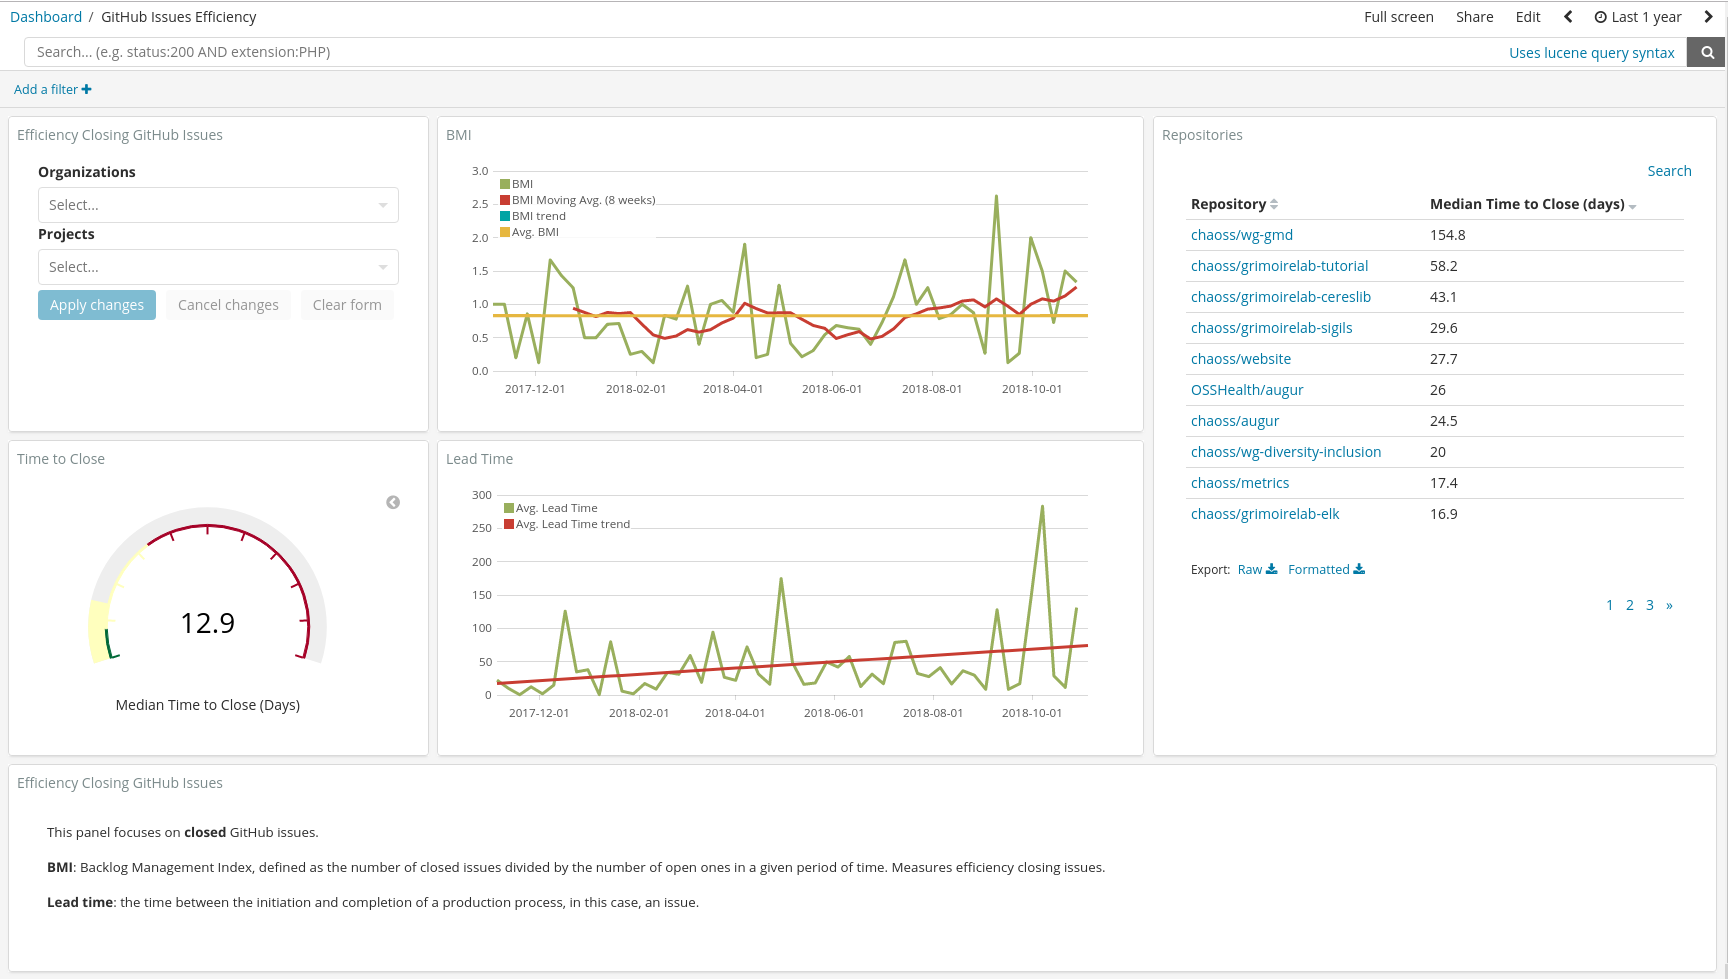
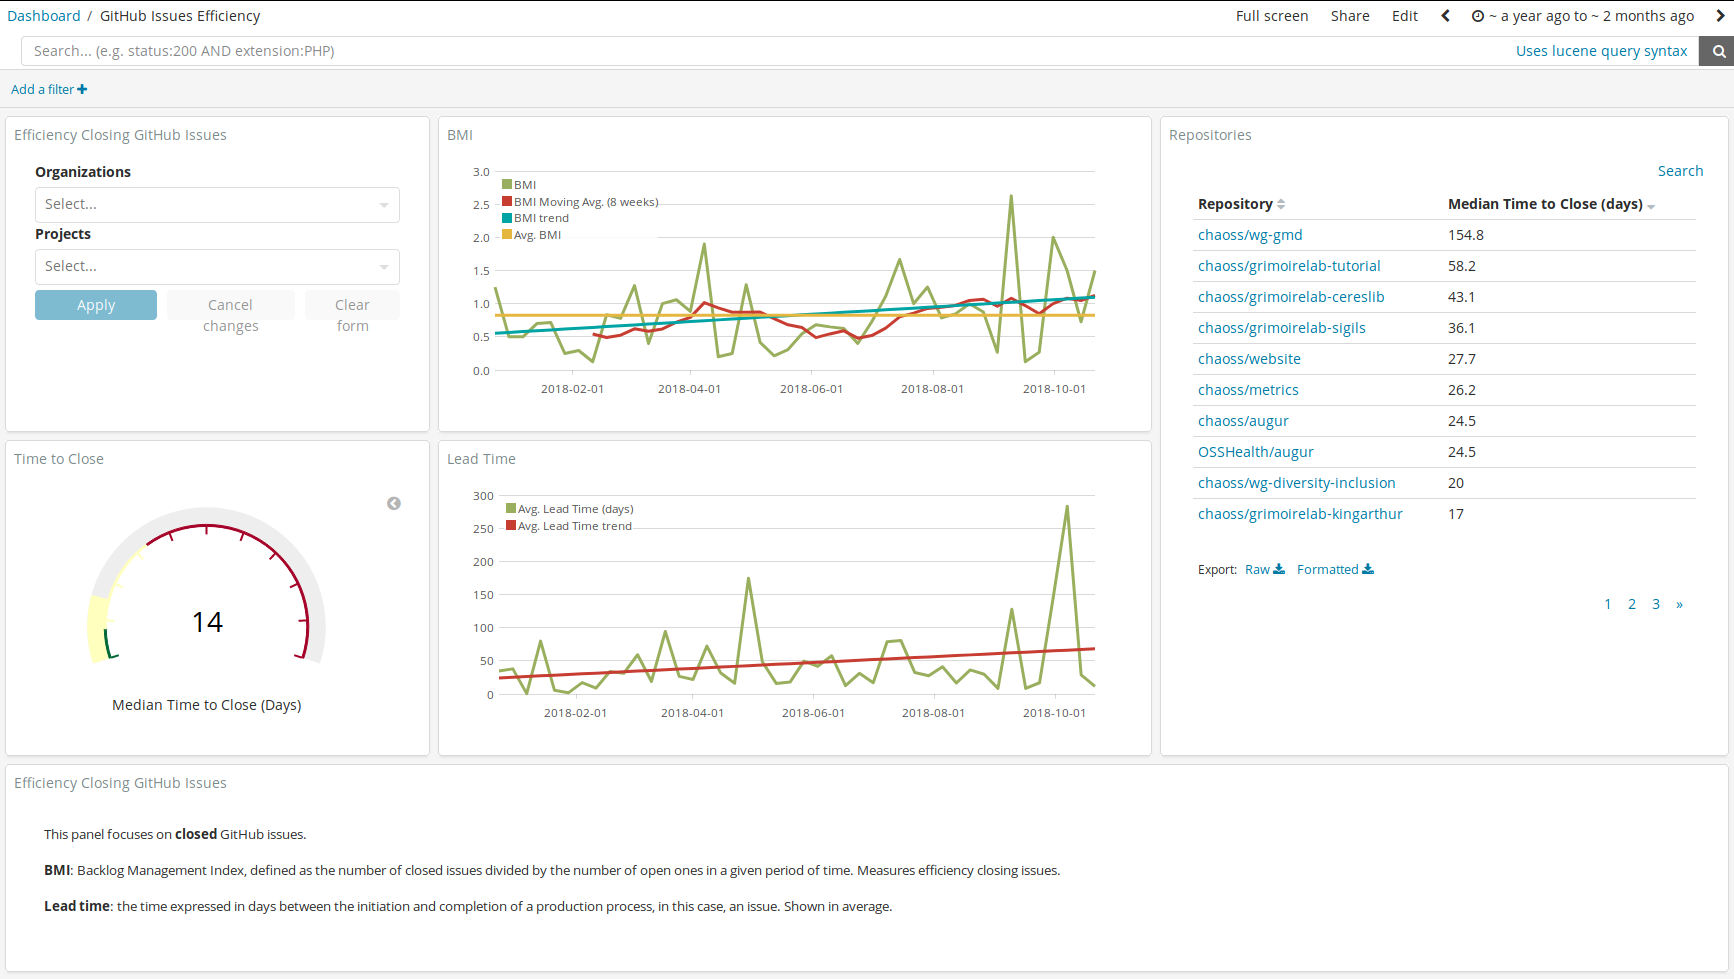
[doc] Update GitHub Efficiency panels documentation
After including the "Lead Time" unit in the panels, the
documentation has been updated for both Issues and Pull Requests
panels, including new screenshots.

diff --git a/docs/_panels/github-pullrequests-efficiency.md b/docs/_panels/github-pullrequests-efficiency.md
@@ -7,7 +7,7 @@ layout: panel
 This panel offers a view of efficiency closing pull requests based on two metrics:
 * **REI**: Review Efficiency Index, defined as the number of closed pull requests divided
   by the number of open ones in a given period of time. Measures efficiency closing pull requests.
-* **Lead Time**:  the time between the initiation and completion of a production
+* **Lead Time**:  the time expressed in days between the initiation and completion of a production
   process, in this case, a pull request. Shown in average in this panel.
 * **Time to Merge**: time from pull request creation to the moment in which it's closed.
 
@@ -28,7 +28,7 @@ for values from 7 to 30 days and red from 30 to 90 days. This means we are
 considering a week as a good time to merge. This is just a visual reference and
 you can always rely on the number, ignoring this color scheme.
 
-Next to this gauge, **Lead Time** shows the average Time to Merge together to its
+Next to this gauge, **Lead Time** shows the average Time to Merge expressed in days together to its
 trend. This helps to identify peaks and visualize the global evolution of time
 spent in closing pull requests.
 

diff --git a/docs/_panels/github-issues-efficiency.md b/docs/_panels/github-issues-efficiency.md
@@ -7,7 +7,7 @@ layout: panel
 This panel offers a view of efficiency closing issues based on two metrics:
 * **BMI**: Backlog Management Index, defined as the number of closed issues divided
   by the number of open ones in a given period of time. Measures efficiency closing issues.
-* **Lead Time**:  the time between the initiation and completion of a production
+* **Lead Time**:  the time expressed in days between the initiation and completion of a production
   process, in this case, an issue. Shown in average in this panel.
 * **Time to Close**: time from issue creation to the moment in which it's closed.
 
@@ -28,7 +28,7 @@ for values from 7 to 30 days and red from 30 to 90 days. This means we are
 considering a week as a good time to close. This is just a visual reference and
 you can always rely on the number, ignoring this color scheme.
 
-Next to this gauge, **Lead Time** shows the average Time to Close together to its
+Next to this gauge, **Lead Time** shows the average Time to Close expressed in days together to its
 trend. This helps to identify peaks and visualize the global evolution of time
 spent in closing issues.
 
